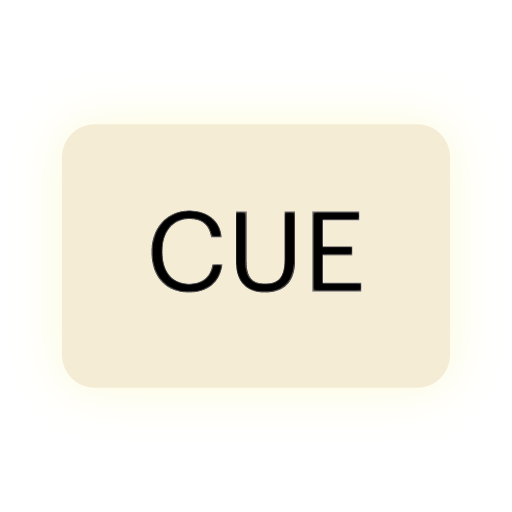
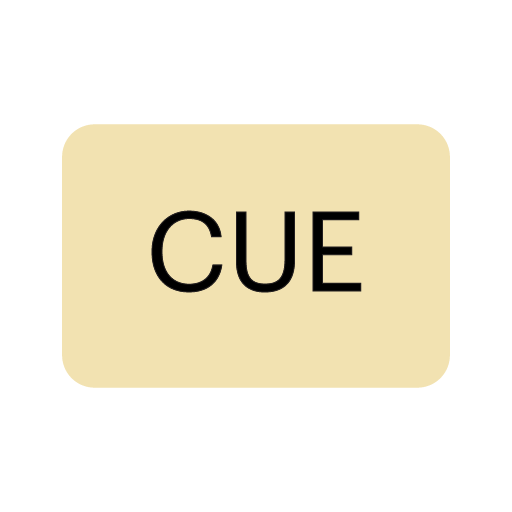
more styling in the .css file, all buttons now globaly has a dropshadow and a custom color, sliders also changed

diff --git a/app/bin/main/styles.css b/app/bin/main/styles.css
@@ -1,8 +1,66 @@
-
 .root {
     -fx-font-family: "Arial";
     -fx-font-weight: bold;
     -fx-font-size: 14px;
-    -fx-text-fill: #f0e6d2;  /* Eggshell white text color */
-    -fx-background-color: #222531; /* Background color */
+    -fx-text-fill: #f0e6d2;
+    /* Eggshell white text color */
+    -fx-background-color: #222531;
+    /* Background color */
+}
+
+.label {
+    -fx-text-fill: #f0e6d2;
+    /* Eggshell white */
+}
+
+.button {
+    -fx-text-fill: #f0e6d2;
+    /* Eggshell white text */
+    -fx-background-color: #444857;
+    /* Optional: darker background */
+    -fx-font-weight: bold;
+    /* Optional: bold text */
+    -fx-border-color: transparent;
+    
+    -fx-effect: dropshadow(gaussian, rgba(0,0,0,0.4), 6, 0.4, 0, 2)
+     
+}
+
+.button:hover {
+    -fx-background-color: #40475d;
+    -fx-cursor: hand;
+}
+
+.button:pressed {
+    -fx-background-color: #2a2e3d;
+    -fx-translate-y: 2px; /* subtle "press" movement */
+    -fx-effect: innershadow(gaussian, rgba(0,0,0,0.4), 6, 0.4, 0, 2);
+}
+
+.slider {
+    -fx-padding: 10;
+}
+
+.slider .track {
+    -fx-background-color: #888; /* Track background */
+    -fx-background-insets: 0;
+    -fx-background-radius: 2;
+    -fx-pref-height: 4;
+}
+
+.slider .thumb {
+    -fx-background-color: #f0e6d2; /* Eggshell white thumb */
+    -fx-background-insets: 0;
+    -fx-background-radius: 50%;
+    -fx-pref-width: 14;
+    -fx-pref-height: 14;
+}
+
+.slider .tick-mark {
+    -fx-stroke: #aaa;
+}
+
+.slider .tick-label {
+    -fx-text-fill: #f0e6d2; /* Eggshell white tick labels */
+    -fx-font-size: 12px;
 }

diff --git a/app/src/main/resources/styles.css b/app/src/main/resources/styles.css
@@ -1,8 +1,66 @@
-
 .root {
     -fx-font-family: "Arial";
     -fx-font-weight: bold;
     -fx-font-size: 14px;
-    -fx-text-fill: #f0e6d2;  /* Eggshell white text color */
-    -fx-background-color: #222531; /* Background color */
+    -fx-text-fill: #f0e6d2;
+    /* Eggshell white text color */
+    -fx-background-color: #222531;
+    /* Background color */
+}
+
+.label {
+    -fx-text-fill: #f0e6d2;
+    /* Eggshell white */
+}
+
+.button {
+    -fx-text-fill: #f0e6d2;
+    /* Eggshell white text */
+    -fx-background-color: #444857;
+    /* Optional: darker background */
+    -fx-font-weight: bold;
+    /* Optional: bold text */
+    -fx-border-color: transparent;
+    
+    -fx-effect: dropshadow(gaussian, rgba(0,0,0,0.4), 6, 0.4, 0, 2)
+     
+}
+
+.button:hover {
+    -fx-background-color: #40475d;
+    -fx-cursor: hand;
+}
+
+.button:pressed {
+    -fx-background-color: #2a2e3d;
+    -fx-translate-y: 2px; /* subtle "press" movement */
+    -fx-effect: innershadow(gaussian, rgba(0,0,0,0.4), 6, 0.4, 0, 2);
+}
+
+.slider {
+    -fx-padding: 10;
+}
+
+.slider .track {
+    -fx-background-color: #888; /* Track background */
+    -fx-background-insets: 0;
+    -fx-background-radius: 2;
+    -fx-pref-height: 4;
+}
+
+.slider .thumb {
+    -fx-background-color: #f0e6d2; /* Eggshell white thumb */
+    -fx-background-insets: 0;
+    -fx-background-radius: 50%;
+    -fx-pref-width: 14;
+    -fx-pref-height: 14;
+}
+
+.slider .tick-mark {
+    -fx-stroke: #aaa;
+}
+
+.slider .tick-label {
+    -fx-text-fill: #f0e6d2; /* Eggshell white tick labels */
+    -fx-font-size: 12px;
 }
